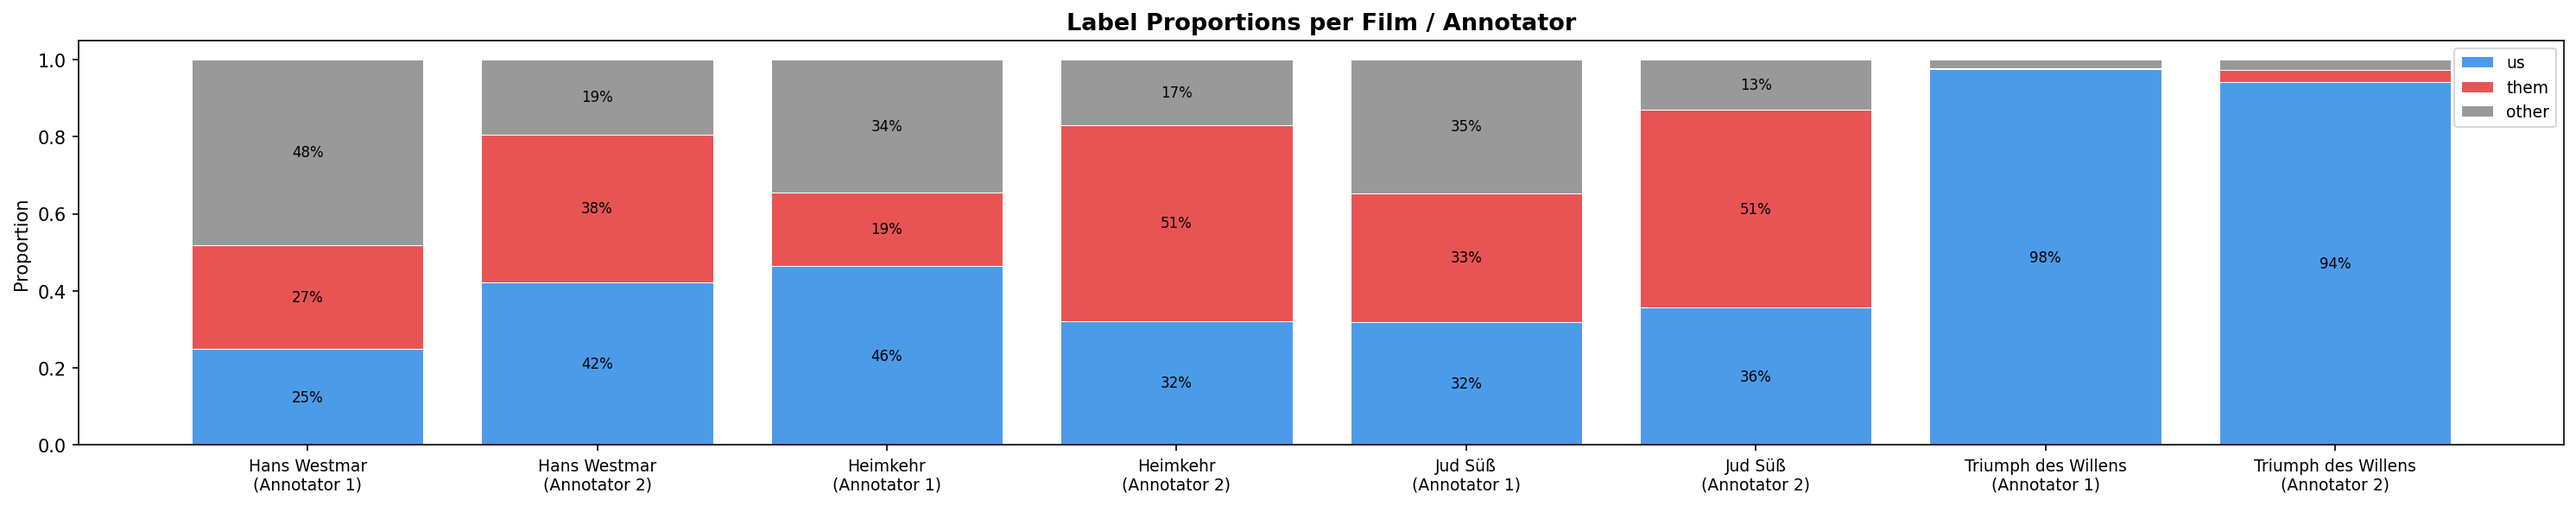
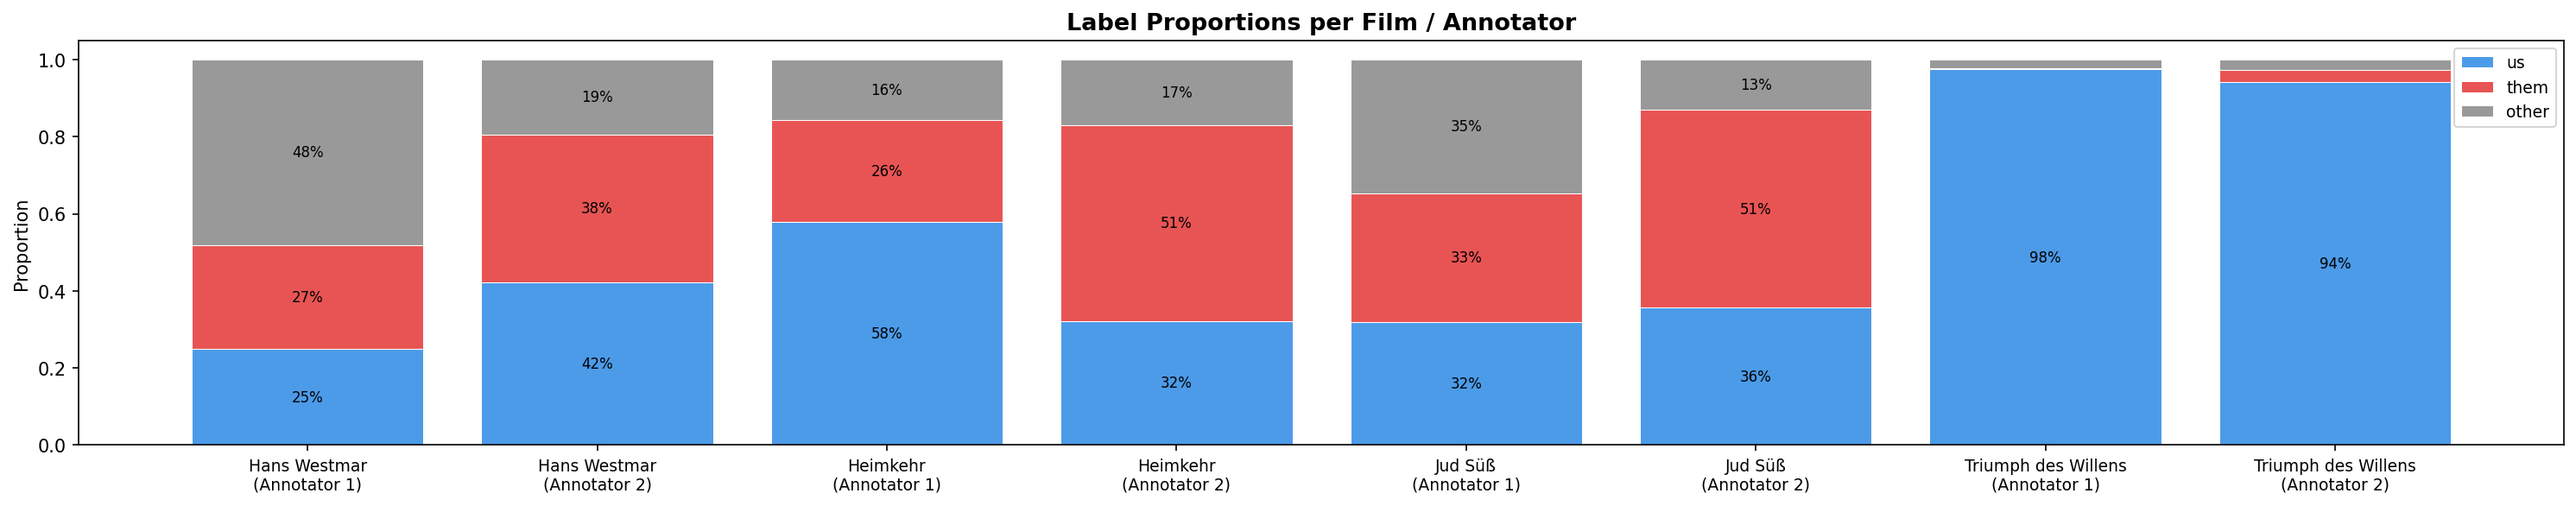
removed excess frames from annotation, adjusted statistics

Changed region(s): [[0.2806, 0.215, 0.4053, 0.3993], [0.2806, 0.43, 0.4053, 0.5529]]

diff --git a/scripts/annotation_stats.py b/scripts/annotation_stats.py
@@ -101,17 +101,12 @@ def load_annotations(annotation_files):
 
 
 def plot_label_distribution(df, output_dir):
-    """Bar chart of label distribution per film, split by annotator."""
-    films = df["film"].unique()
-    n_films = len(films)
-
-    fig, axes = plt.subplots(1, n_films, figsize=(5 * n_films, 4), squeeze=False)
-    fig.suptitle("Label Distribution per Film", fontsize=14, fontweight="bold", y=1.02)
-
-    for i, film in enumerate(sorted(films)):
-        ax = axes[0, i]
+    """Bar chart of label distribution per film, split by annotator. One file per film."""
+    for film in sorted(df["film"].unique()):
         film_df = df[df["film"] == film]
         annotators = sorted(film_df["annotator"].unique())
+
+        fig, ax = plt.subplots(figsize=(5, 4))
 
         x = np.arange(len(LABELS))
         width = 0.35 if len(annotators) == 2 else 0.5
@@ -132,18 +127,19 @@ def plot_label_distribution(df, output_dir):
                     ax.text(bar.get_x() + bar.get_width() / 2, bar.get_height() + 0.5,
                             str(count), ha="center", va="bottom", fontsize=9)
 
-        ax.set_title(film, fontsize=12)
+        ax.set_title(film, fontsize=12, fontweight="bold")
         ax.set_xticks(x)
         ax.set_xticklabels(LABELS)
         ax.set_ylabel("Frame count")
         if len(annotators) > 1:
             ax.legend(fontsize=8)
 
-    plt.tight_layout()
-    path = Path(output_dir) / "label_distributions.png"
-    fig.savefig(path, dpi=150, bbox_inches="tight")
-    plt.close(fig)
-    print(f"Saved: {path}")
+        plt.tight_layout()
+        safe_film = film.replace(" ", "_").lower()
+        path = Path(output_dir) / f"label_distribution_{safe_film}.png"
+        fig.savefig(path, dpi=150, bbox_inches="tight")
+        plt.close(fig)
+        print(f"Saved: {path}")
 
 
 def plot_label_proportions(df, output_dir):
